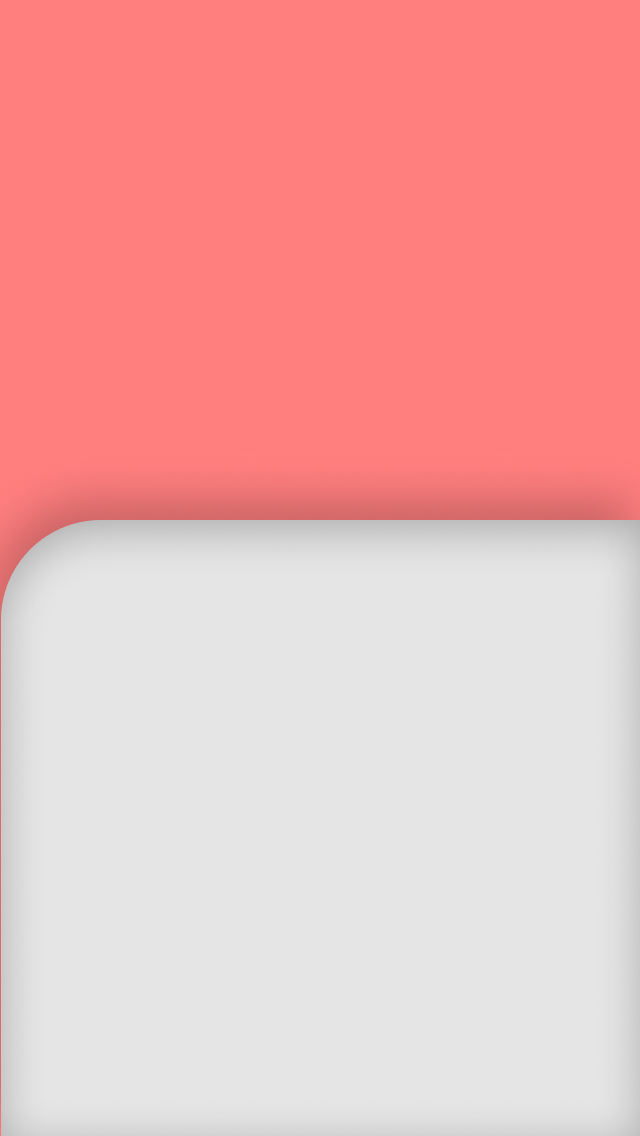
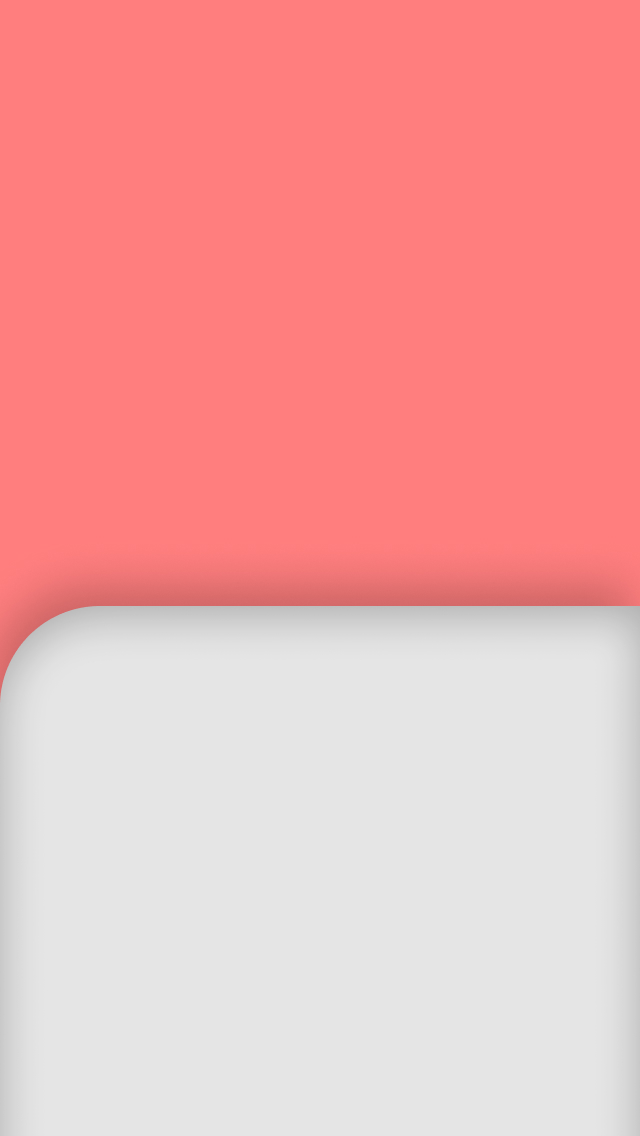
дизайн таймеров готов

Changed region(s): [[0.0, 0.4313, 1.0, 0.6162]]

diff --git a/Hobby/Hobby/TimerPage.xaml b/Hobby/Hobby/TimerPage.xaml
@@ -1,8 +1,11 @@
 <?xml version="1.0" encoding="utf-8" ?>
 <ContentPage xmlns="http://xamarin.com/schemas/2014/forms"
              xmlns:x="http://schemas.microsoft.com/winfx/2009/xaml"
+            xmlns:tool="http://xamarin.com/schemas/2020/toolkit"
+
              x:Class="Hobby.TimerPage"
             xmlns:local="clr-namespace:Hobby;assembly=Hobby"
+
 >
 
     <ContentPage.Content>
@@ -14,7 +17,7 @@
                 <!-- Выбор режима таймера -->
                 <Grid WidthRequest="200" 
                   HorizontalOptions="Start" 
-                  Margin="10,10,0,0" 
+                  Margin="20,30,0,0" 
                   RowSpacing="0">
                     <Grid.ColumnDefinitions>
                         <ColumnDefinition Width="140" />
@@ -60,47 +63,44 @@
                 </Grid>
 
                 <!-- Контейнер Pomodoro -->
-                <StackLayout x:Name="PomodoroContainer" Padding="50" >
-                    <StackLayout Margin="0,0,0,0" VerticalOptions="Center">
-                        <Label x:Name="PomodoroTimerLabel" 
+                <StackLayout x:Name="PomodoroContainer" Padding="50, 0, 50, 82" >
+                    <Label x:Name="PomodoroTimerLabel" 
                            Text="00:00" 
                            FontFamily="VisionBold"
                            FontSize="80" 
                            TextColor="White"
                            HorizontalOptions="Center" />
-                        <Grid>
-                            <Image  Grid.Column="0"
-                                x:Name="PomodoroResetButtonImage"
-                                Source = "{local:ImageResource Hobby.Images.rotateccw.png}" 
-                                HeightRequest="40"
-                                WidthRequest="40"/>
+                    <Grid>
+                        <Image  Grid.Column="0"
+                            x:Name="PomodoroResetButtonImage"
+                            Source = "{local:ImageResource Hobby.Images.rotateccw.png}" 
+                            HeightRequest="40"
+                            WidthRequest="40"/>
 
-                            <Image  Grid.Column="1"
-                                x:Name="PomodoroStartButtonImage"
-                                Source = "{local:ImageResource Hobby.Images.play.png}"
-                                HeightRequest="40"
-                                WidthRequest="40" 
-                                />
-
-                            <Button x:Name="PomodoroResetButton"
-                                Grid.Column="0"
-                                BackgroundColor="Transparent"
-                                Clicked="PomodoroResetButton_Clicked"
-                                HeightRequest="40"
-                                WidthRequest="40"/>
-                            <Button x:Name="PomodoroStartButton"
-                                Grid.Column="1"
-                                BackgroundColor="Transparent"
-                                Clicked="PomodoroStartButton_Clicked"
-                                HeightRequest="40"
-                                WidthRequest="40"/>
-                            <Button BackgroundColor="Transparent" IsEnabled="False" Grid.Column="2"/>
-                        </Grid>
-                    </StackLayout>
+                        <Image  Grid.Column="1"
+                            x:Name="PomodoroStartButtonImage"
+                            Source = "{local:ImageResource Hobby.Images.play.png}"
+                            HeightRequest="40"
+                            WidthRequest="40" 
+                            />
+                        <Button x:Name="PomodoroResetButton"
+                            Grid.Column="0"
+                            BackgroundColor="Transparent"
+                            Clicked="PomodoroResetButton_Clicked"
+                            HeightRequest="40"
+                            WidthRequest="40"/>
+                        <Button x:Name="PomodoroStartButton"
+                            Grid.Column="1"
+                            BackgroundColor="Transparent"
+                            Clicked="PomodoroStartButton_Clicked"
+                            HeightRequest="40"
+                            WidthRequest="40"/>
+                        <Button BackgroundColor="Transparent" IsEnabled="False" Grid.Column="2"/>
+                    </Grid>
                 </StackLayout>
 
                 <!-- Контейнер FreeTimer -->
-                <StackLayout x:Name="FreeTimerContainer" IsVisible="False" Padding="50,50,50,0">
+                <StackLayout x:Name="FreeTimerContainer" IsVisible="False" Padding="50, 0, 50, 25">
                     <Label x:Name="FreeTimerLabel" 
                        Text="00:00" 
                        FontSize="80" 
@@ -142,10 +142,12 @@
 
                     <Label x:Name="TotalTimeLabel" 
                            Text="{Binding CurrentTaskItem.TotalWorkTime, StringFormat='{0:hh\\:mm\\:ss}'}"
-                           Margin="0,20,0,0"
-                        FontFamily="VisionRegular"
+                           FontFamily="VisionBold"
                            FontSize="30" 
-                           HorizontalOptions="Center"/>
+                           Margin="0,10,0,0"
+                           TextColor="#FFC0C0"
+                           HorizontalOptions="Center"
+                           />
                 </StackLayout>
 
                 <!-- Общий список задач -->
@@ -265,26 +267,46 @@
                     </StackLayout>
                     
                     <!-- Элементы меню -->
-                    <Entry Margin="30,0,30,0" x:Name="NameEntry" FontFamily="VisualRegular" FontSize="25"/>
+                    <Frame BackgroundColor="#D9D9D9" 
+                           Margin="30,0,30,10" 
+                           CornerRadius="30">
+                        <Entry x:Name="NameEntry" 
+                               Placeholder="Введите новое занятие" 
+                               FontFamily="VisualRegular" 
+                               FontSize="25"/>
+                    </Frame>
                     <Grid Margin= "30,0,30,10">
                         <Grid.ColumnDefinitions>
                             <ColumnDefinition Width="*"/>
-                            <ColumnDefinition Width="100"/>
+                            <ColumnDefinition Width="60"/>
+                            <ColumnDefinition Width="5"/>
+                            <ColumnDefinition Width="60"/>
                         </Grid.ColumnDefinitions>
                         <Grid.RowDefinitions>
                             <RowDefinition Height="*"/>
                             <RowDefinition Height="*"/>
                             <RowDefinition Height="80"/>
                         </Grid.RowDefinitions>
-                        <Label Grid.Row="0" Grid.Column="0" Text="Время работы:" VerticalOptions="Center" 
+                        <Label Grid.Row="0" Grid.Column="0" 
+                               Text="Время работы:" 
+                               VerticalOptions="Center" 
                                FontFamily="VisualRegular" FontSize="25"/>
-                        <Entry Grid.Row="0" Grid.Column="1" x:Name="WorkDurationEntry"
+                        <Entry Grid.Row="0" Grid.Column="1" x:Name="WorkDurationEntryMinutes"
+                               Text ="25" FontFamily="VisualRegular" FontSize="25"/>
+                        <Label Grid.Row="0" Grid.Column="2" Text=":" VerticalOptions="Center" 
                                FontFamily="VisualRegular" FontSize="25"/>
+                        <Entry Grid.Row="0" Grid.Column="3" x:Name="WorkDurationEntrySeconds"
+                               Text ="00" FontFamily="VisualRegular" FontSize="25"/>
+                        
                         <Label Grid.Row="1" Grid.Column="0" Text="Время отдыха:" VerticalOptions="Center"
                                FontFamily="VisualRegular" FontSize="25"/>
-                        <Entry Grid.Row="1" Grid.Column="1" x:Name="RestDurationEntry"
+                        <Entry Grid.Row="1" Grid.Column="1" x:Name="RestDurationEntryMinutes"
+                               Text ="25" FontFamily="VisualRegular" FontSize="25"/>
+                        <Label Grid.Row="1" Grid.Column="2" Text=":" VerticalOptions="Center" 
                                FontFamily="VisualRegular" FontSize="25"/>
-                        <ImageButton Grid.Row="2" Grid.Column="1" 
+                        <Entry Grid.Row="1" Grid.Column="3" x:Name="RestDurationEntrySeconds"
+                               Text ="00" FontFamily="VisualRegular" FontSize="25"/>
+                        <ImageButton Grid.Row="2" Grid.Column="3" 
                                      HorizontalOptions="End"
                                      WidthRequest="60"
                                      HeightRequest="60"

diff --git a/Hobby/Hobby/TimerPage.xaml.cs b/Hobby/Hobby/TimerPage.xaml.cs
@@ -367,20 +367,30 @@ namespace Hobby
 
         private async void ConfirmNew_Clicked(object sender, EventArgs e)
         {
-            if (WorkDurationEntry.Text is null || RestDurationEntry.Text is null || NameEntry.Text is null)
+            if (WorkDurationEntryMinutes.Text is null || RestDurationEntryMinutes.Text is null 
+                || WorkDurationEntrySeconds.Text is null || RestDurationEntrySeconds.Text is null
+                || NameEntry.Text is null)
                 await DisplayAlert(title: "Ошибка", message: "Поле не должно быть пустым", cancel: "ОК");
-            else if (int.TryParse(WorkDurationEntry.Text, out var workDur) && int.TryParse(RestDurationEntry.Text, out var restDur))
+            else if (int.TryParse(WorkDurationEntrySeconds.Text, out var workSec) 
+                && int.TryParse(RestDurationEntrySeconds.Text, out var restSec)
+                && int.TryParse(WorkDurationEntryMinutes.Text, out var workMin)
+                && int.TryParse(RestDurationEntryMinutes.Text, out var restMin))
             {
                 App.Db.SaveItem(
                     new DbItem
                     {
                         Name = NameEntry.Text,
-                        WorkDuration = workDur * 1000,
-                        RestDuration = restDur * 1000,
+                        WorkDuration = (workSec + workMin * 60) * 1000,
+                        RestDuration = (restSec + restMin * 60) * 1000,
                     }
                     );
                 OnCloseMenuTapped(null, null);
-                UpdateTasksFromDB();            
+                UpdateTasksFromDB();
+                NameEntry.Text = "";
+                WorkDurationEntryMinutes.Text = "25";
+                RestDurationEntryMinutes.Text = "5";
+                WorkDurationEntrySeconds.Text = "00";
+                RestDurationEntrySeconds.Text = "00";
             }
             else
                 await DisplayAlert(title: "Ошибка", message: "Неправильные значения ввода", cancel: "ОК");
